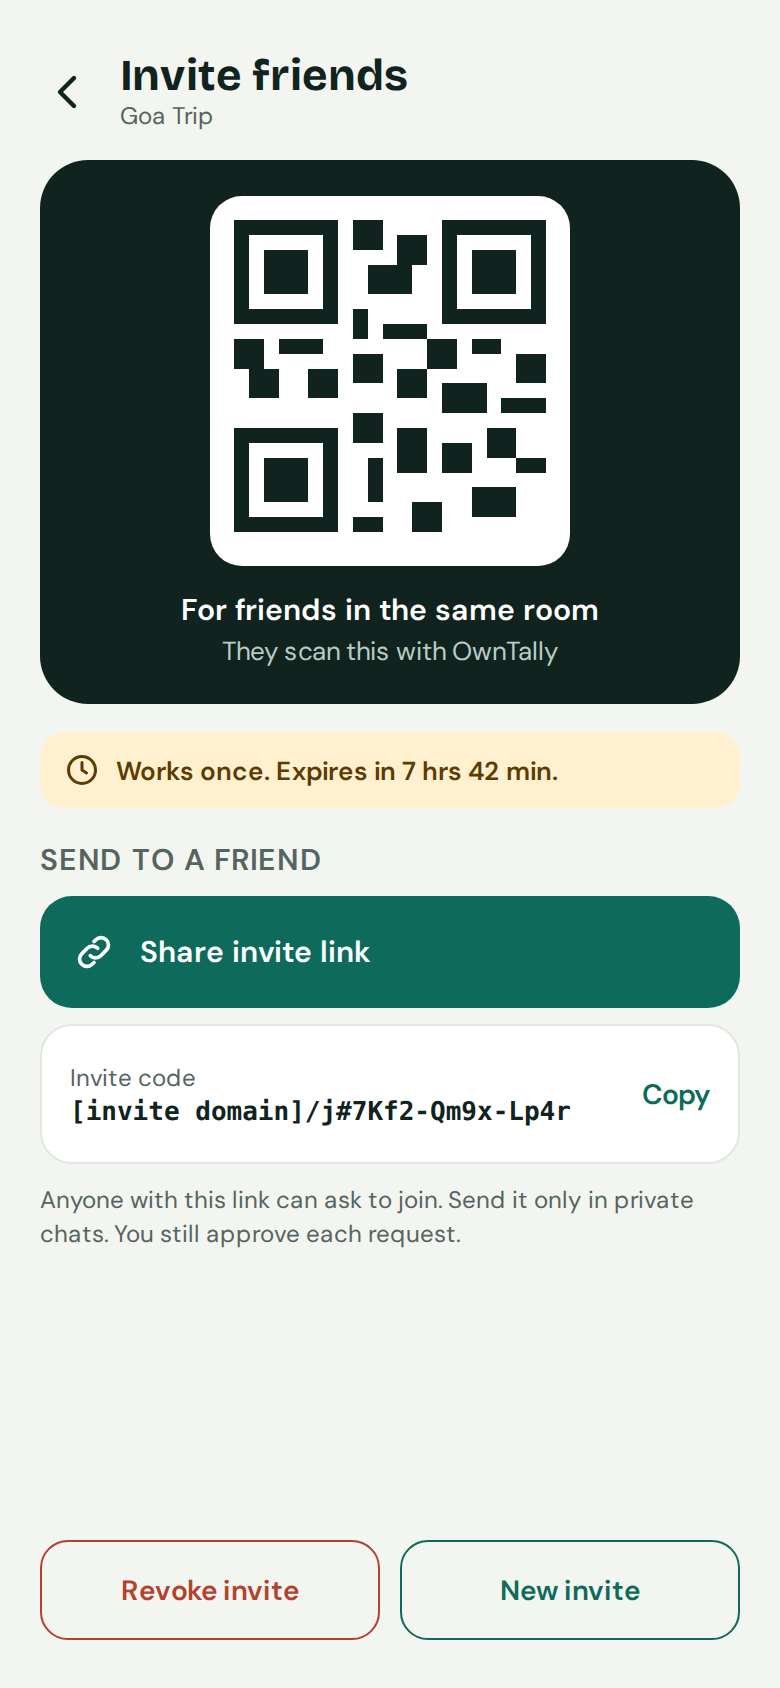
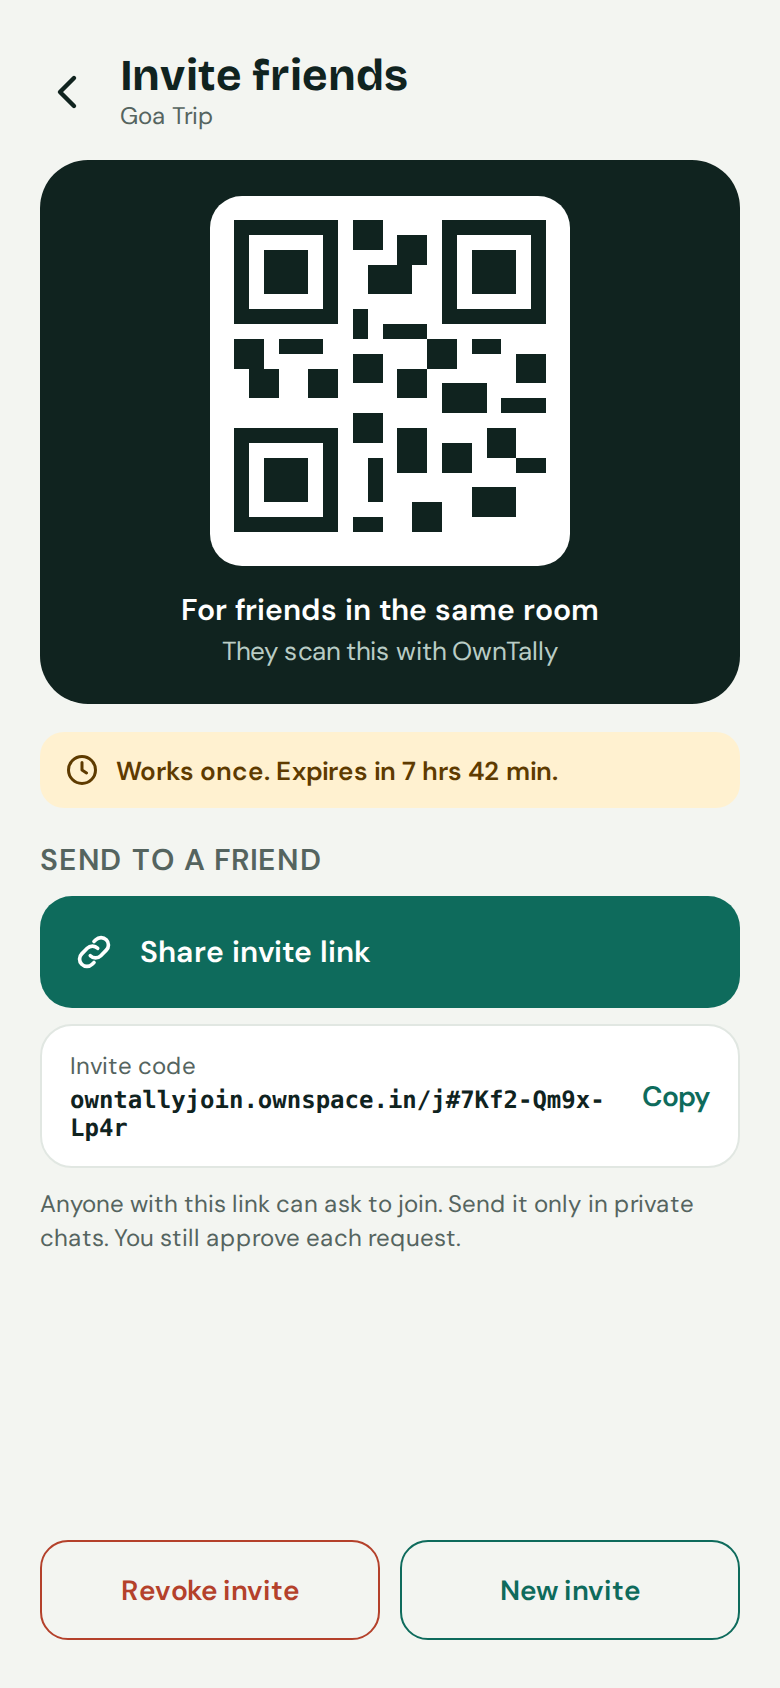
Set invite link domain to owntallyjoin.ownspace.in

diff --git a/docs/DESIGN.md b/docs/DESIGN.md
@@ -23,6 +23,7 @@ UI mockups: see the design/ folder (screens to be exported there).
 | Join approval | Admin approves or declines. No fingerprint check. Tickets: single use, 8 hours; an admin sends a new one if expired. |
 | Removal with unsettled balance | Allowed. Balances are rebalanced as if the removed member were never in the group; their entries and payments involving them stay in history but are excluded. Before-and-after shown to the admin, who must confirm. |
 | Recovery phrase step | Required at first run, cannot be skipped. |
+| Invite link domain | `owntallyjoin.ownspace.in`, static page only. |
 | Pairing method | Ticket shared via tappable link, copy-paste text, or QR (see below). |
 | Profile data | Name and phone number only, nothing else. Set per group, visible to members of that group. The phone number is not verified (no OTP, no server): it is a label. |
 | Settlement scope | Group level, payment by payment, no frozen round. See Profile and settling. |
@@ -42,7 +43,7 @@ UI mockups: see the design/ folder (screens to be exported there).
 A ticket is about 150 characters: host id, connection hint, group id, group key.
 
 Ways to share it, in order of preference:
-1. Tappable `https://` link with the ticket after `#` (never sent to the web host). Needs a small static page on a domain we own to hand off to the app. WhatsApp only linkifies `https://`, not `owntally://`.
+1. Tappable link `https://owntallyjoin.ownspace.in/j#<ticket>`, with the ticket after `#` (never sent to the web host). Needs a small static page on that domain to hand off to the app (see Invite link page). WhatsApp only linkifies `https://`, not `owntally://`.
 2. Plain-text ticket through the share sheet, pasted into "Join group".
 3. QR code, for people in the same room. QR holds under about 2.9 KB, so it carries the ticket only, never data.
 
@@ -125,6 +126,17 @@ Limits:
 - The debtor taps "I paid" and the creditor taps "Received". Until then the settlement is shown as unconfirmed. `SettlementRecorded` stores the amount, from, to, and the confirmation state.
 - Cash is always an option.
 - Reminders: the creditor can send a message through the share sheet.
+
+## Invite link page
+
+Domain: `owntallyjoin.ownspace.in`. Static hosting only (for example GitHub Pages with a DNS CNAME); no server code, no database, no logging of the ticket, which stays after the `#` and is never sent to the host.
+
+Needs:
+1. DNS record for `owntallyjoin.ownspace.in` pointing at the static host, with HTTPS.
+2. A static page at `/j` for people without the app: install button (Play Store), "copy code" fallback, and a note to paste the code in "Join with link or code".
+3. `/.well-known/assetlinks.json` with the app's package name and signing certificate SHA-256, so Android opens the app directly on tap. This can only be filled in once the app exists and is signed.
+
+If this is not set up, QR codes and pasted codes still work; only the tap-to-open experience is lost. The relay at `relay.ownspace.in` is the only server we run.
 
 ## Hosting your own relay
 

diff --git a/design/README.md b/design/README.md
@@ -1,6 +1,6 @@
 # OwnTally mockups
 
-Screens at phone size (390 x 844). Names, numbers and the 12 recovery words are examples. The QR code is a drawing, and the invite domain is a placeholder.
+Screens at phone size (390 x 844). Names, numbers and the 12 recovery words are examples. The QR code is a drawing,.
 
 | Screen | Image |
 |---|---|
